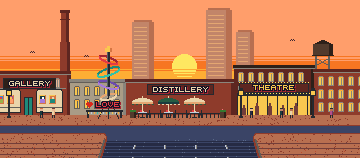
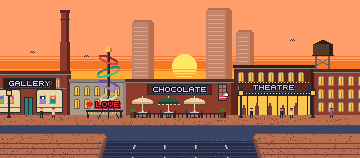
End High Park's walk at the High Park Zoo's log arch and sign the Distillery's warehouse CHOCOLATE, so no backdrop repeats its neighbourhood's name
High Park's trail now stops at a closed plank gate between log posts under a
HIGH PARK ZOO plank sign, with a bison and a llama in split-rail paddocks either
side; the cross path and approach rows are unchanged. Its path card shows the
same arch signed ZOO, since the card's label names the park. The Distillery's
middle warehouse is a chocolate shop with a painted bar beside its sign. The
style guide gains the rule that a backdrop never shows its own neighbourhood's
name.

Changed region(s): [[0.4278, 0.5316, 0.6417, 0.6582]]

diff --git a/art/tools/backdrops.py b/art/tools/backdrops.py
@@ -924,7 +924,7 @@ def castle(cv, cx, base):
 
 
 def hot_dog_cart(cv, cx, base):
-    """A hot dog cart by the park gate, side on with its wheels on row base: a stainless box with a
+    """A hot dog cart by the zoo gate, side on with its wheels on row base: a stainless box with a
     counter, ketchup and mustard on it, under a red and yellow striped umbrella."""
     for k in range(4):
         for x in range(cx - 2 - 2 * k, cx + 3 + 2 * k):
@@ -992,6 +992,96 @@ def oak(cv, cx, top, w, base, seed, lit="canopy", shade="pine", hi="olive", trun
             cv.fill(px, py, 1, 1, c)
 
 
+# The zoo's animals, side on and facing left, as rows of fills: a bison (walnut forequarters and hump,
+# bark hindquarters, a cream horn) and a llama (cream, driftwood on its shaded right and underside and
+# its far legs).
+BISON = ("......wwww..........",
+         "....wwwwwwww........",
+         "...wwwwwwwwwwbbbbb..",
+         "..wwwwwwwwwwwbbbbbbb",
+         ".hwwwwwwwwwwwbbbbbbb",
+         "hwwwwwwwwwwwwbbbbbbd",
+         "wwwwwwwwwwwwwbbbbbbd",
+         "wwwww.wwwwwwwbbbbbd.",
+         ".www..wwwwwwwddddd..",
+         ".ww...ww.ww...dd.dd.",
+         "......ww.ww...dd.dd.",
+         "......ww.ww...dd.dd.")
+BISON_COLOURS = dict(w="walnut", b="bark", d="walnut", h="cream")
+LLAMA = (".c.c........",
+         ".ccc........",
+         "cccc........",
+         ".ccs........",
+         ".ccs........",
+         ".ccs........",
+         ".ccs........",
+         ".cccccccccc.",
+         "cccccccccccs",
+         ".ccccccccccs",
+         "..ssssssssss",
+         "..cs.....cs.",
+         "..cs.....cs.",
+         "..cs.....cs.")
+LLAMA_COLOURS = dict(c="cream", s="driftwood")
+
+
+def figure(cv, x, base, rows, cols):
+    """A figure drawn from rows of characters, its left column on x and its bottom row on row base: each
+    character a colour from cols, '.' left clear."""
+    for j, row in enumerate(rows):
+        for i, ch in enumerate(row):
+            if ch != ".":
+                cv.fill(x + i, base - len(rows) + j, 1, 1, cols[ch])
+
+
+def split_rail(cv, x0, x1, base, h=10, every=10):
+    """A split-rail paddock fence on row base, columns x0 to x1 - 1: bark posts h rows tall every every
+    columns and at the far end, two tan rails with brown under them."""
+    for y in (base - h + 2, base - h // 2 + 1):
+        cv.fill(x0, y, x1 - x0, 1, "tan")
+        cv.fill(x0, y + 1, x1 - x0, 1, "brown")
+    for x in list(range(x0, x1 - 1, every)) + [x1 - 2]:
+        cv.fill(x, base - h, 2, h, "bark")
+
+
+def zoo_gate(cv):
+    """The High Park Zoo's entrance at the trail's end, standing on row BASE + 6: grazed olive paddocks
+    behind split rails either side, a bison in the left one and a llama in the right; a closed plank
+    double gate, each leaf Z-braced, between two log posts under a log crossbeam with cut ends; and a
+    plank sign hung from the beam, HIGH PARK ZOO in cream."""
+    for py in range(BASE - 12, BASE + 6):
+        for px in range(118, 244):
+            cv.fill(px, py, 1, 1, "dolive" if noise(px, py) < 0.04 or noise(px, py - 1) < 0.04 else "olive")
+    split_rail(cv, 118, 244, BASE - 10, h=7, every=12)
+    figure(cv, 126, BASE - 1, BISON, BISON_COLOURS)
+    figure(cv, 216, BASE - 1, LLAMA, LLAMA_COLOURS)
+    for x0, x1 in ((118, CX - 30), (CX + 30, 244)):
+        split_rail(cv, x0, x1, BASE + 6)
+    for gx in (CX - 26, CX):
+        cv.fill(gx, BASE - 6, 26, 12, "tan")
+        for k in range(gx + 3, gx + 26, 4):
+            cv.fill(k, BASE - 6, 1, 12, "brown")
+        cv.fill(gx, BASE - 5, 26, 2, "brown")
+        cv.fill(gx, BASE + 2, 26, 2, "brown")
+        cv.line(gx + 1, BASE + 2, gx + 24, BASE - 4, "brown")
+    cv.fill(CX - 1, BASE - 6, 2, 12, "walnut")
+    for x in (CX - 31, CX + 27):
+        cv.fill(x, BASE - 34, 5, 40, "bark")
+        cv.fill(x + 4, BASE - 34, 1, 40, "walnut")
+        cv.fill(x, BASE - 34, 5, 1, "tan")
+    cv.fill(CX - 38, BASE - 38, 76, 4, "bark")
+    cv.fill(CX - 38, BASE - 35, 76, 1, "walnut")
+    for x in (CX - 38, CX + 35):
+        cv.fill(x, BASE - 38, 3, 4, "tan")
+        cv.fill(x + 1, BASE - 37, 1, 2, "skin2")
+    for x in (CX - 30, CX + 29):
+        cv.fill(x, BASE - 34, 1, 3, "walnut")
+    cv.fill(CX - 41, BASE - 31, 82, 12, "walnut")
+    cv.fill(CX - 40, BASE - 30, 80, 10, "brown")
+    cv.fill(CX - 40, BASE - 30, 80, 1, "tan")
+    word(cv, "HIGH PARK ZOO", CX, BASE - 29, "cream")
+
+
 def high_park():
     cv = sn.Canvas(W, H)
     # a deep clear blue, two white clouds high over the oaks
@@ -1045,13 +1135,8 @@ def high_park():
                                     (CX + 150, BASE - 30, 14, "canopy", "pine"),
                                     (-2, BASE - 24, 15, "olive", "dolive")):
         tree(cv, cx, top, leaf, shade, trunk="bark", r=r, base=BASE + 4)
-    # the park gate at the end of the trail, its sign facing the street
-    for x in (CX - 48, CX + 46):
-        cv.fill(x, BASE - 32, 3, 38, "bark")
-    cv.fill(CX - 58, BASE - 42, 116, 16, "pine")
-    cv.fill(CX - 58, BASE - 42, 116, 1, "canopy")
-    cv.fill(CX - 58, BASE - 27, 116, 1, "fir")
-    word(cv, "HIGH PARK", CX, BASE - 38, "gold")
+    # the High Park Zoo at the end of the trail, its sign facing the street, lamps either side
+    zoo_gate(cv)
     for x in (CX - 66, CX + 66):
         cv.fill(x, BASE - 18, 2, 24, "coal")
         cv.fill(x - 4, BASE - 24, 10, 7, "coal")
@@ -1075,8 +1160,8 @@ def high_park():
         lane = (x + ROAD) % 64 - 32
         return dirt(px, py, abs(lane) < 5 and noise(px // 3, py // 2) < 0.7)
 
-    # the trail on to the gate, its worn middle drifting, ragged brown edges
-    for py in range(BASE - 8, CROSS):
+    # the trail up to the zoo gate's foot, where it ends, its worn middle drifting, ragged brown edges
+    for py in range(BASE + 6, CROSS):
         half = 18 + (py - BASE + 8) // 3 + (1 if hashed(0, py, 3) else 0)
         cv.fill(CX - half, py, 2 * half, 1, "brown")
         for px in range(CX - half + 1, CX + half - 1):
@@ -1167,6 +1252,28 @@ def sign_board(cv, mid, y, text, board, letters):
     cv.fill(x - 1, y - 1, w + 2, 11, "coal")
     cv.fill(x, y, w, 9, board)
     word(cv, text, mid, y + 1, letters)
+
+
+# The chocolate shop's painted bar, as rows of fills: a milk chocolate bar of scored squares in a coal
+# outline, its foil peeled back at the right over a red wrapper with a cream band.
+CHOCOLATE_BAR = ("kkkkkkkkk...",
+                 "kbbbdbbbk...",
+                 "kbbbdbbbk...",
+                 "kbbbdbbbk...",
+                 "kdddddddk...",
+                 "kbbbdbbbk...",
+                 "kbbbdbbbk...",
+                 "kbbbdbbbk...",
+                 "kdddddddkk..",
+                 "kbbbdbbflk..",
+                 "kbbbdbffllk.",
+                 "kbbbdfflllkk",
+                 "krrrrrrkkk..",
+                 "kcccccccck..",
+                 "krrrrrrrk...",
+                 "krrrrrrrk...",
+                 "kkkkkkkkk...")
+CHOCOLATE_COLOURS = dict(k="coal", b="brown", d="dbrown", f="lgrey", l="white", r="red", c="cream")
 
 
 # The paintings hung in a gallery's windows: (sky or ground, lower field, a spot of colour).
@@ -1362,12 +1469,14 @@ def distillery():
     birds(cv, ((30, BASE - 64), (84, BASE - 60), (290, BASE - 76)))
     chimney(cv, CX - 121, 12)
     water_tower(cv, CX + 142, BASE - 46)
-    # round the square: the gallery and an old limestone mill on the left, the long low warehouse across
-    # it under the DISTILLERY sign, the theatre and another warehouse on the right
+    # round the square: the gallery and an old limestone mill on the left, the chocolate shop in the long
+    # low warehouse across it, its CHOCOLATE sign and a painted bar beside it, the theatre and another
+    # warehouse on the right
     gallery(cv, -10, 80, BASE - 44, BASE)
     warehouse(cv, 70, 56, BASE - 36, BASE, "driftwood", "dstone")
     warehouse(cv, CX - 54, 108, BASE - 36, BASE, "brick", "stone", rows=0)
-    sign_board(cv, CX, BASE - 30, "DISTILLERY", "dbrick", "cream")
+    sign_board(cv, CX, BASE - 30, "CHOCOLATE", "dbrick", "cream")
+    figure(cv, CX + 38, BASE - 14, CHOCOLATE_BAR, CHOCOLATE_COLOURS)
     theatre(cv, CX + 54, 80, BASE - 50, BASE)
     warehouse(cv, CX + 134, 56, BASE - 46, BASE, "brick", "stone", rows=3)
     # the square's paving, café tables under umbrellas, Still Dancing, the LOVE sign, lamps and passers-by

diff --git a/art/tools/cards.py b/art/tools/cards.py
@@ -942,6 +942,16 @@ def cabbagetown_view():
     return a
 
 
+# The zoo's llama at the card's scale, as backdrops.LLAMA: facing left, its far side driftwood.
+MINI_LLAMA = (".c....",
+              "cc....",
+              ".c....",
+              ".ccccc",
+              ".ccccs",
+              ".c..c.",
+              ".s..s.")
+
+
 def high_park_view():
     trail = flecked("tan", "brown", 23, "skin2")
     dark = tufted("pine")
@@ -962,15 +972,35 @@ def high_park_view():
             if u * u + v * v <= 1 and py < 9:
                 a.fill(px, py, 1, 1, "pine" if v > 0.3 else "olive" if u + v < -0.6 else "canopy")
     bd.tree(a, 4, 9, "pink", "mauve", r=6, base=18, girth=2)
-    for x in (11, 62):
-        a.fill(x, 1, 2, FAR_Y - 1, "bark")
-    a.fill(13, 2, 49, 17, "pine")
-    a.fill(13, 2, 49, 1, "canopy")
-    a.fill(13, 18, 49, 1, "fir")
-    bd.word(a, "HIGH", AW / 2, 3, "gold")
-    bd.word(a, "PARK", AW / 2, 10, "gold")
+    # the High Park Zoo's log arch at the trail's end, as the backdrop's: olive paddocks behind a rail
+    # fence, a llama in the right one, a closed plank gate between log posts under a log beam, and a
+    # plank sign hung from it reading ZOO (the card's label names the park)
+    a.fill(0, 12, AW, FAR_Y - 12, "olive")
+    bd.figure(a, 58, 16, MINI_LLAMA, bd.LLAMA_COLOURS)
+    for x0, x1 in ((0, 25), (50, AW)):
+        a.fill(x0, 16, x1 - x0, 1, "tan")
+        a.fill(x0, 17, x1 - x0, 1, "brown")
+        for x in range(x0 + 4, x1 - 1, 8):
+            a.fill(x, 15, 2, FAR_Y - 15, "bark")
+    a.fill(27, 14, 21, 7, "tan")
+    for x in range(29, 48, 3):
+        a.fill(x, 14, 1, 7, "brown")
+    a.fill(27, 15, 21, 1, "brown")
+    a.fill(27, 19, 21, 1, "brown")
+    a.fill(37, 14, 1, 7, "walnut")
+    for x in (24, 48):
+        a.fill(x, 3, 3, FAR_Y - 3, "bark")
+        a.fill(x + 2, 3, 1, FAR_Y - 3, "walnut")
+    a.fill(20, 0, 35, 3, "bark")
+    a.fill(20, 2, 35, 1, "walnut")
+    for x in (20, 53):
+        a.fill(x, 0, 2, 3, "tan")
+    a.fill(23, 3, 29, 11, "walnut")
+    a.fill(24, 4, 27, 9, "brown")
+    a.fill(24, 4, 27, 1, "tan")
+    bd.word(a, "ZOO", AW / 2, 5, "cream")
     a.street()
-    for py in range(19, CROSS_Y):
+    for py in range(FAR_Y, CROSS_Y):
         half = 7 + (py - 13) // 2
         for px in range(round(AW / 2) - half, round(AW / 2) + half):
             a.fill(px, py, 1, 1, trail(px, py))

diff --git a/art/style-guide.md b/art/style-guide.md
@@ -342,6 +342,7 @@ Backdrops are 360×158 on screen rows 48 to 205 (`art/tools/backdrops.py`); band
 - Kensington Market's far side is a worn row of two-storey Victorians turned shops: paint a step darker and greyer than the brights (`WORN_WALL`, `WORN_ROOF`), no green wall or roof, sun-faded awnings, 2px soot streaks and a dirty band along each wall's foot, hydro poles with 2px wires, and throw-ups drawn in 2px strokes. Empty crates and vintage rails stand out front; no plants.
 - Kensington Market's laneway murals at the band's edges are painted a ramp step darker than `MURAL`, so they sit behind the shopfronts.
 - The approach rows carry no static scenery. The near corners and the stub's verges show only their ground (lawn, paving, sidewalk and curb, as the verge paints them): the game's road begins there and its items spawn over them, so no perch, ornament, tree, lamp, bench, sign or other prop stands there. Everything static stands at or beyond the cross street, and no static vehicle stands on it: the ambient traffic drives there, so a jam (Yonge Street's side street) stays beyond the far sidewalk.
+- A backdrop never shows its own neighbourhood's name: the walk's pill names it. Nor does its path card's art, whose label names it.
 
 ## Skies
 
